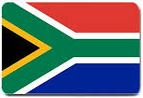
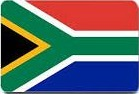
UI rework

diff --git a/css/main.css b/css/main.css
@@ -135,6 +135,17 @@ div.realbalance {
 	text-align: center;
 }
 
+.col-xs-4-main-profiledash-under-1-dots {
+	padding-right:0;
+    padding-left:0;
+	padding-top: 1.5px;
+	width: 33.4px;
+	height:12px;
+	background-color:#F5F5F5;
+	text-align: center;
+	
+}
+
 
 .colorbackground {
 
@@ -154,5 +165,10 @@ img.propic {
 	top: 0;
 	left: 0;
 	border-radius: 5px;
+}
+
+img.statusdots{
+	padding-top: 0.6px;
+	margin-top: 0;
 }
 

diff --git a/index.php b/index.php
@@ -96,7 +96,7 @@ if($_POST){
                                         <div class="container">
                                             <div class="row">
                                                 <div class="col-xs-4 col-xs-4-main-profiledash-under">
-                                                    <h6><small>COUNTRY<br> S.AFRICA</small></h6>
+                                                    <h6><small>COUNTRY<br><img src="img/saflagicontiny.jpg"></small></h6>
                                                 </div>
                                                 <div class="col-xs-4 col-xs-4-main-profiledash-under">
                                                     <h6><small>CREDITS <br><b>2</b></small></h6>
@@ -143,8 +143,39 @@ if($_POST){
                                 </div>
                             </div>
 
+                            <div class="row padleft ">
+                            
+                                <div class="col-xs-2 col-xs-4-main-profiledash-under-1-dots">
+                                    <h6><small>D5 <img  class="statusdots" src="img/tinygreendot.png"></small></h6>
+                                </div>
+                                
+                                <div class="col-xs-2 col-xs-4-main-profiledash-under-1-dots">
+                                    <h6><small>D4 <img class="statusdots" src="img/tinyreddot.png"></small></h6>
+                                </div>
 
-
+                                <div class="col-xs-2 col-xs-4-main-profiledash-under-1-dots">
+                                    <h6><small>D3 <img  class="statusdots"  src="img/tinygreendot.png"></small></h6>
+                                </div>
+                                
+                                <div class="col-xs-2 col-xs-4-main-profiledash-under-1-dots">
+                                    <h6><small>D2 <img  class="statusdots"  src="img/tinyreddot.png"></small></h6>
+                                </div>
+                                
+                                <div class="col-xs-2 col-xs-4-main-profiledash-under-1-dots">
+                                    <h6><small>D1 <img  class="statusdots"  src="img/tinyreddot.png"></small></h6>
+                                </div>
+                                
+                                <div class="col-xs-2 col-xs-4-main-profiledash-under-1-dots">
+                                    <h6><small>SG <img  class="statusdots"  src="img/tinygreendot.png"></small></h6>
+                                </div>
+                                
+                                <div class="col-xs-2 col-xs-4-main-profiledash-under-1-dots">
+                                    <h6><small>CR <img  class="statusdots"  src="img/tinygreendot.png"></small></h6>
+                                </div>
+                                
+                                <div class="col-xs-2 col-xs-4-main-profiledash-under-1-dots">
+                                    <h6><small>NX <img  class="statusdots"  src="img/tinyreddot.png"></small></h6>
+                                </div>
                             
                         </div>
 
